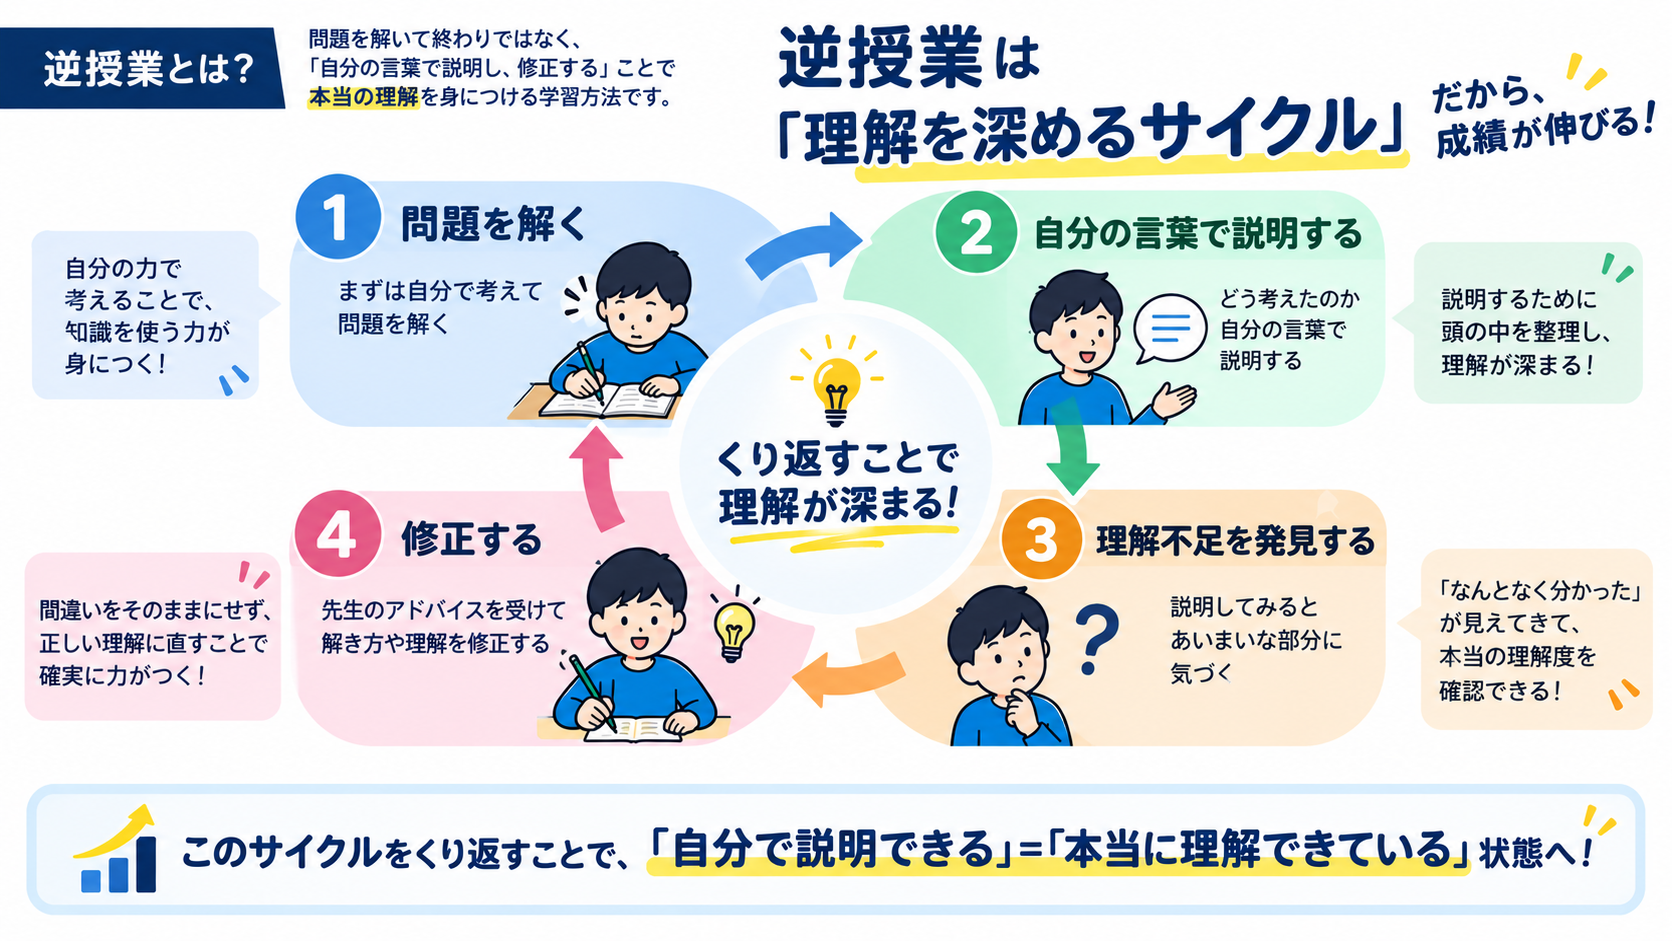
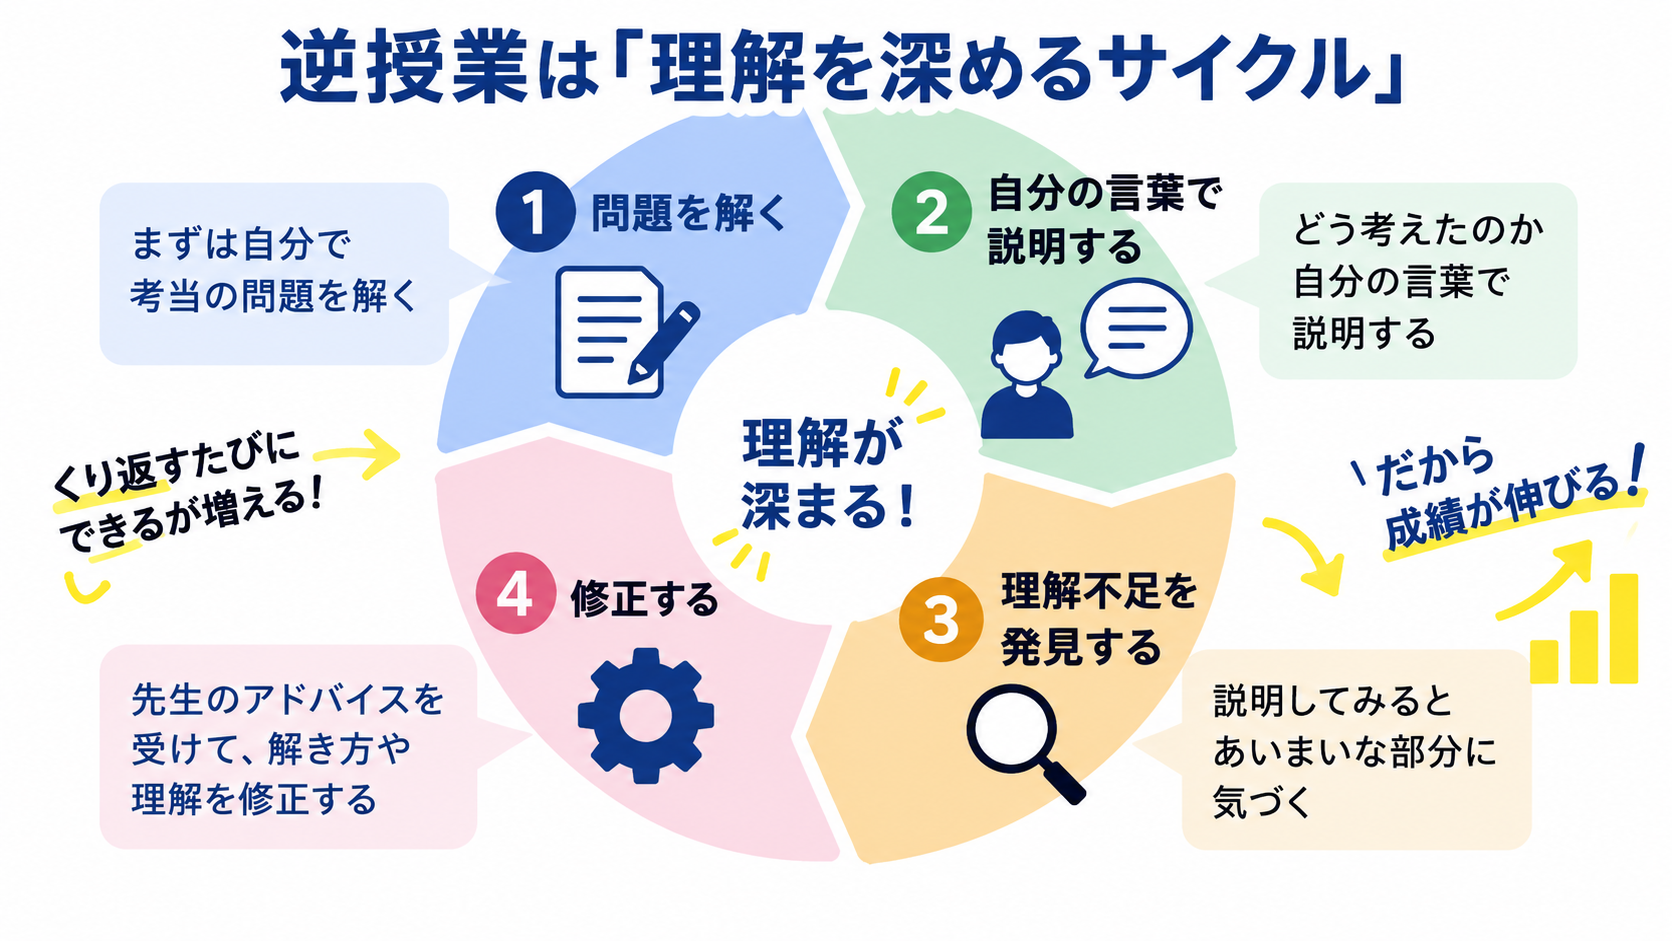
Enlarge reverse lesson cycle graphic

diff --git a/legacy-dist/assets/site.css b/legacy-dist/assets/site.css
@@ -194,6 +194,9 @@ img{max-width:100%;display:block}
 .reverse-cycle-points span{font-size:13px;line-height:1.65;color:#4a5263}
 .reverse-cycle-figure{overflow:hidden;background:#fff;border:1px solid var(--line);border-radius:16px;box-shadow:0 14px 30px rgba(23,36,95,.1)}
 .reverse-cycle-figure img{display:block;width:100%;height:auto}
+@media (max-width:719px){
+  .reverse-cycle-figure{width:calc(100% + 32px);margin:0 -16px;border-right:0;border-left:0;border-radius:0;box-shadow:0 10px 24px rgba(23,36,95,.09)}
+}
 .page-hero{background:var(--navy);color:#fff;padding:42px 16px 32px}
 .page-hero .section-kicker{color:var(--yellow)}
 .page-hero h1{color:#fff;font-size:34px}
